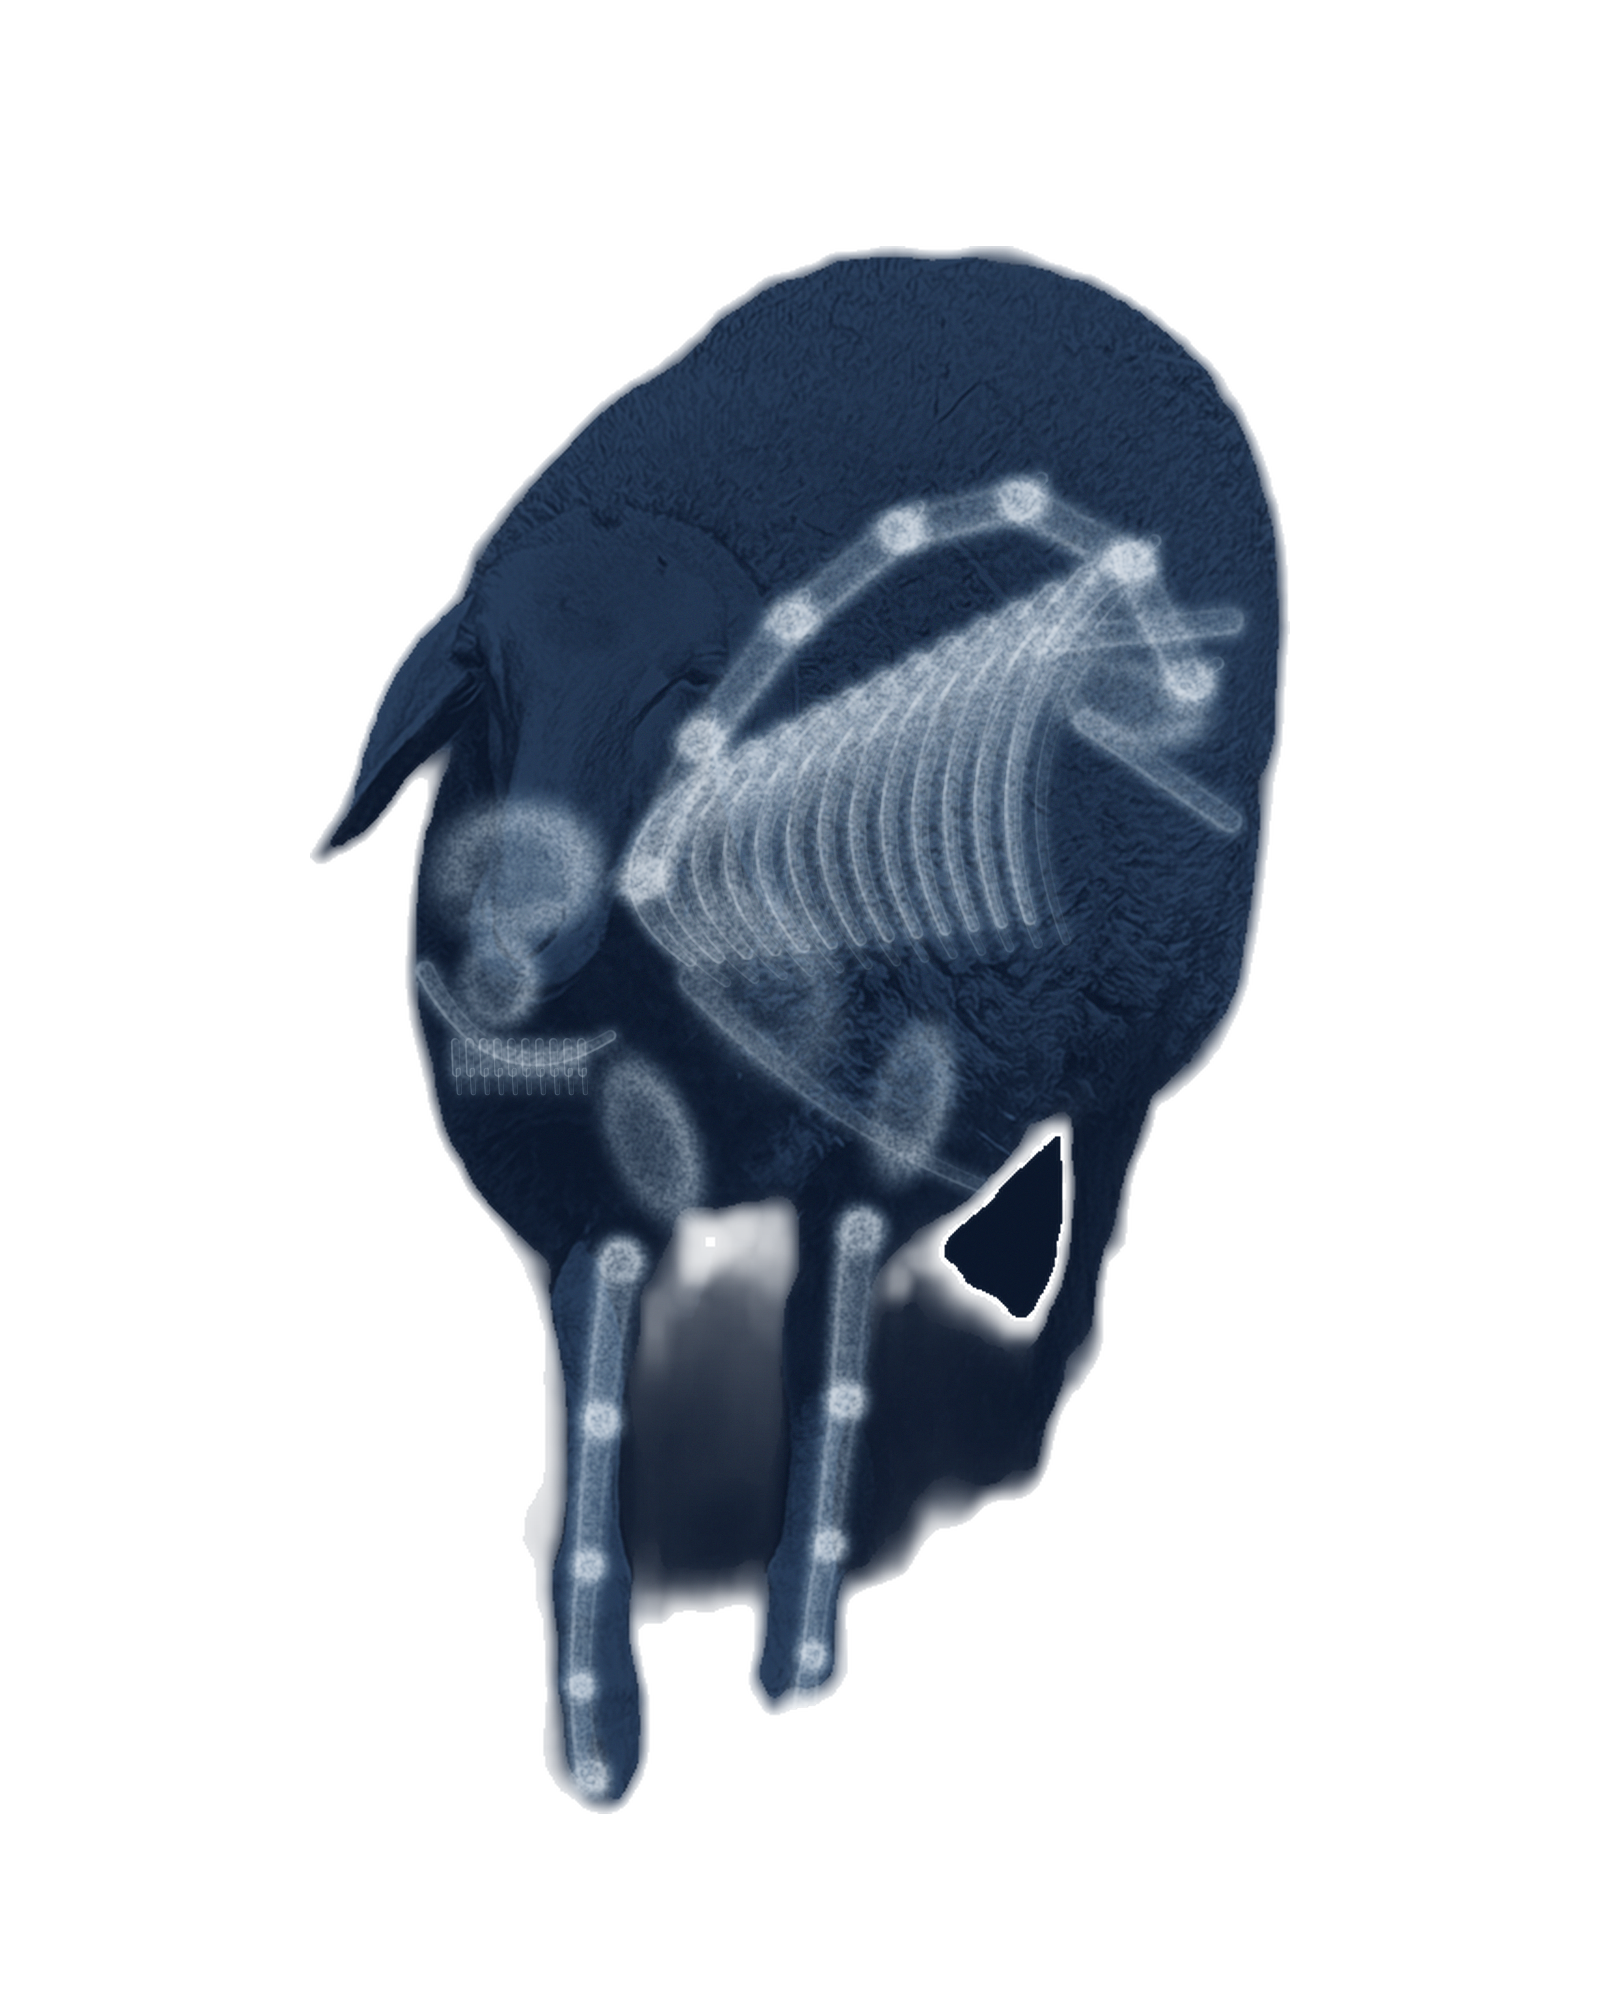
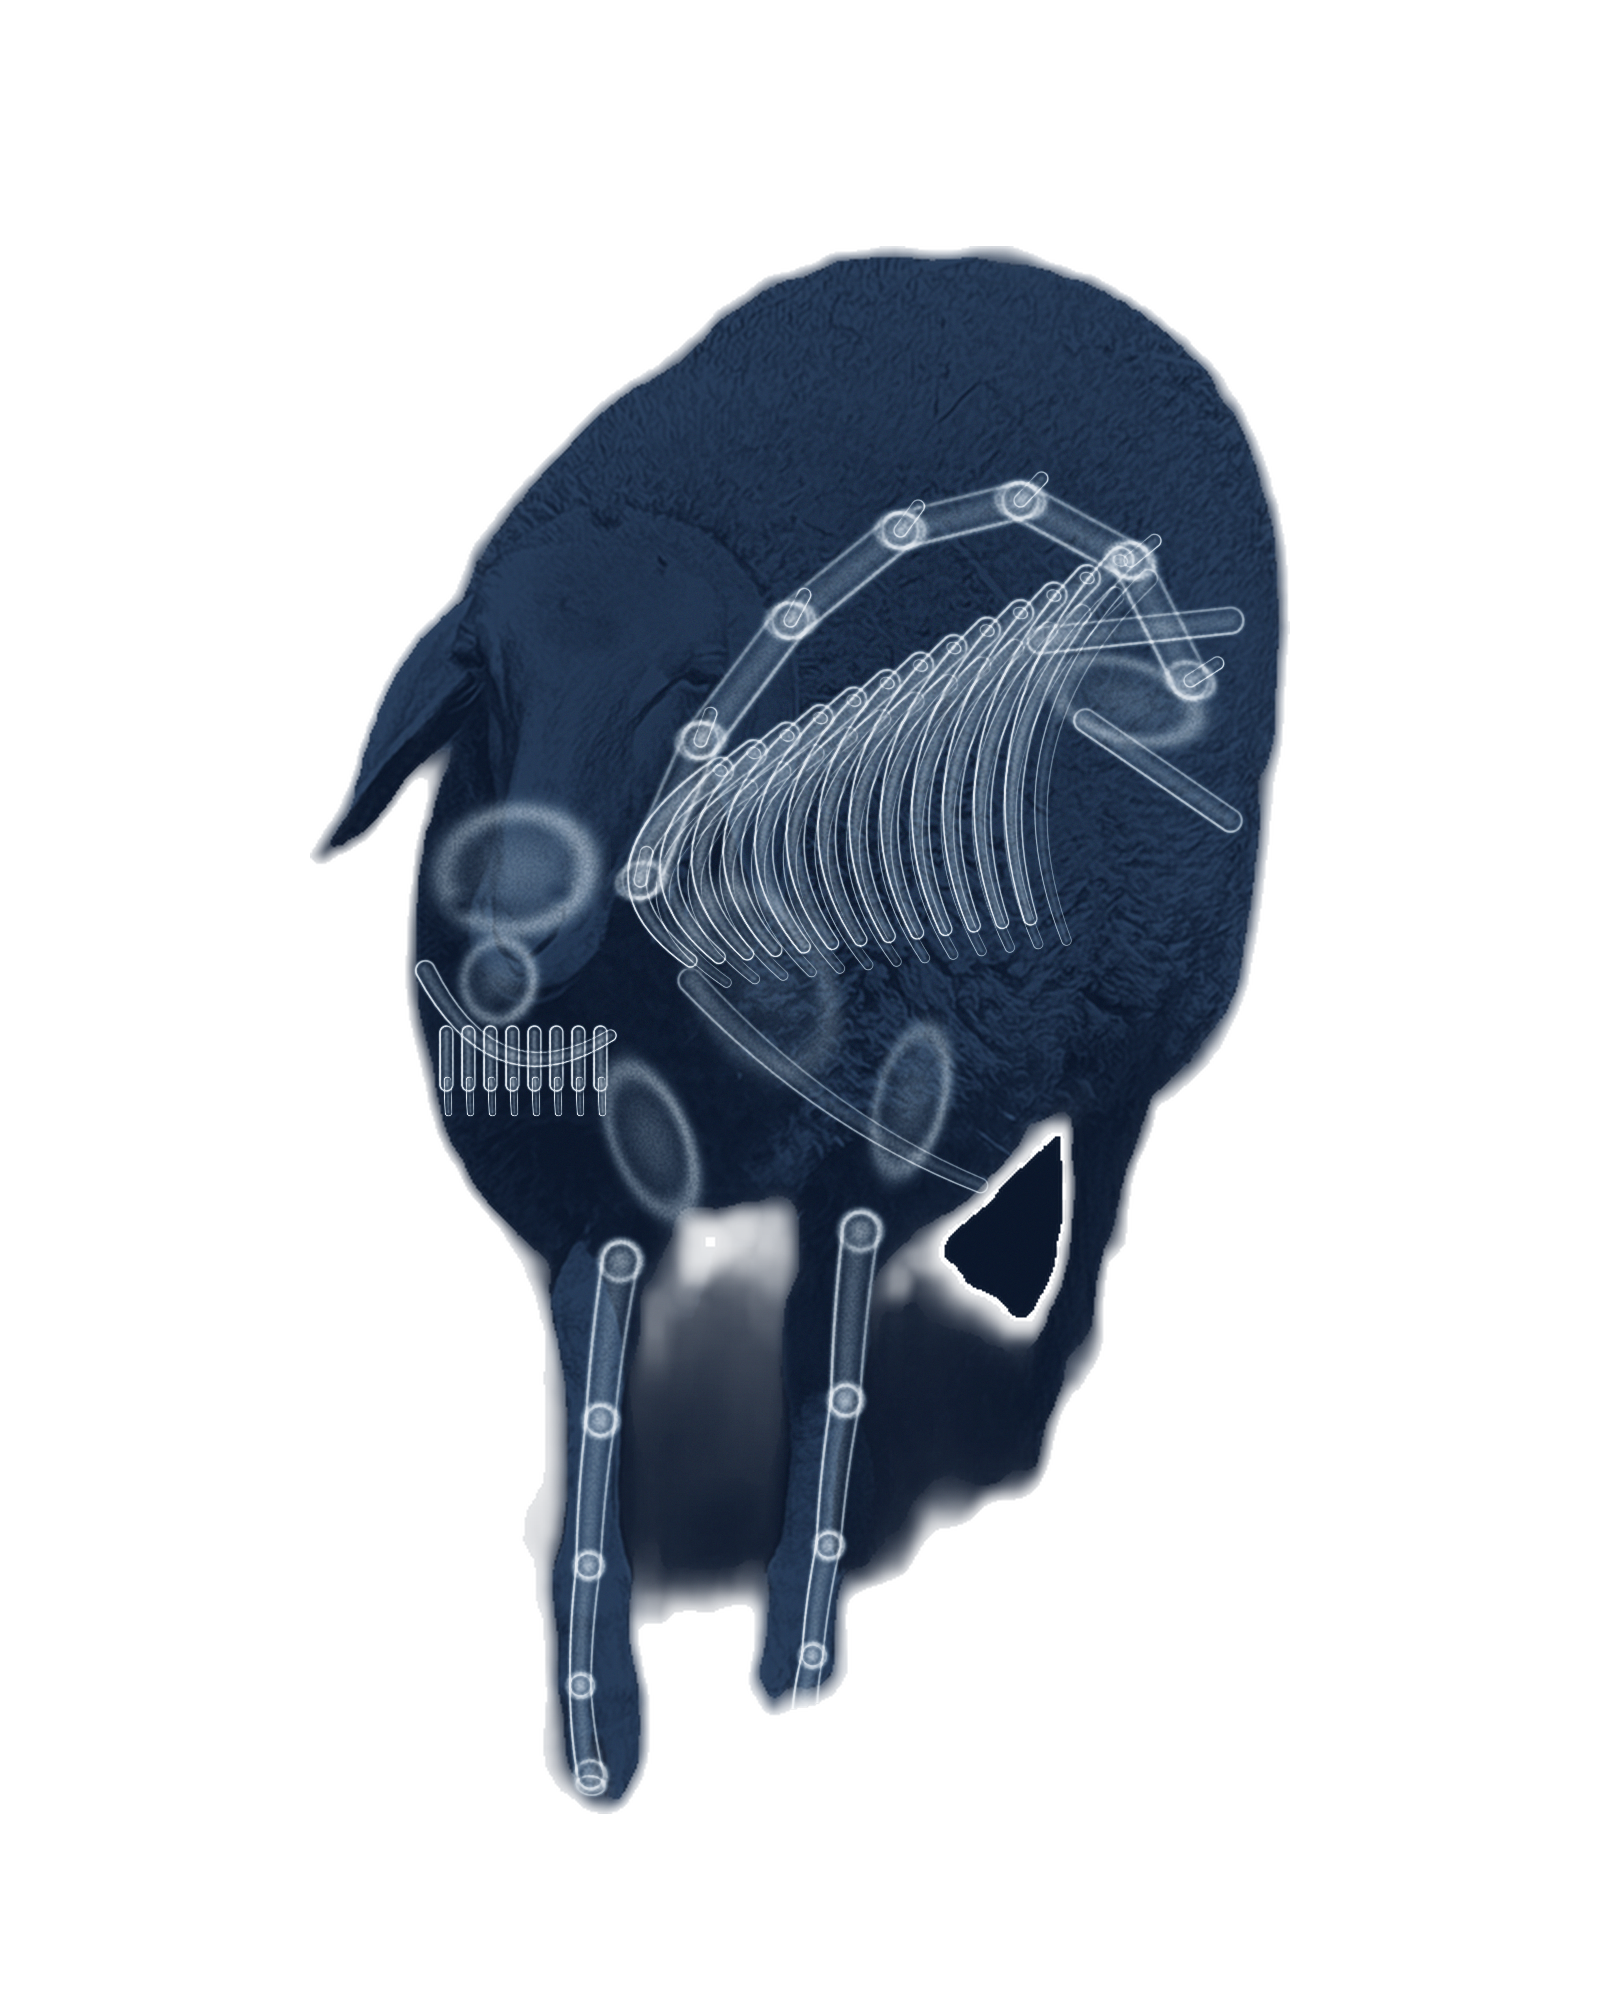
Magnify the phone scan so ribs and teeth resolve.
The sheep now uses the phone column instead of a 320px cap, and a touch opens a 3.85x loupe centered on the anatomy under the finger, drawn above it. The plate is a new sharper file, still registered to the same silhouette.

Changed region(s): [[0.25, 0.217, 0.7812, 0.837], [0.3438, 0.62, 0.4062, 0.899], [0.75, 0.403, 0.7812, 0.434]]

diff --git a/dev/sheep-site/js/scan.js b/dev/sheep-site/js/scan.js
@@ -1,43 +1,66 @@
 (function () {
   var scan = document.getElementById("scan");
   var mask = document.getElementById("mask");
+  var plate = document.getElementById("plate");
   var lens = document.getElementById("lens");
   var touchId = null;
 
-  function radius() {
+  function metrics(touch) {
     var width = scan.getBoundingClientRect().width;
-    return Math.max(68, Math.min(width * 0.46, 124));
+    var phone = touch || window.matchMedia("(max-width: 760px)").matches;
+    if (phone) {
+      return {
+        radius: Math.max(78, Math.min(width * 0.27, 108)),
+        zoom: 3.85
+      };
+    }
+    return {
+      radius: Math.max(90, Math.min(width * 0.32, 128)),
+      zoom: 1.45
+    };
   }
 
-  function place(clientX, clientY, lift) {
+  function place(clientX, clientY, touch) {
     var rect = scan.getBoundingClientRect();
-    var x = clientX - rect.left;
-    var y = clientY - rect.top - lift;
-    var size = radius();
-    mask.style.clipPath = "circle(" + size + "px at " + x + "px " + y + "px)";
-    lens.style.left = x + "px";
-    lens.style.top = y + "px";
-    lens.style.width = size * 2 + "px";
-    lens.style.height = size * 2 + "px";
+    var sampleX = clientX - rect.left;
+    var sampleY = clientY - rect.top;
+    var m = metrics(touch);
+    var lift = 0;
+    if (touch) {
+      var wanted = Math.round(m.radius * 0.42 + 36);
+      var viewY = sampleY - wanted;
+      if (viewY < m.radius * 0.55) viewY = Math.min(sampleY, m.radius * 0.55);
+      lift = sampleY - viewY;
+    }
+    var viewX = sampleX;
+    var viewY = sampleY - lift;
+    mask.style.clipPath = "circle(" + m.radius + "px at " + viewX + "px " + viewY + "px)";
+    plate.style.transformOrigin = sampleX + "px " + sampleY + "px";
+    plate.style.transform = "translate(0px, " + (-lift) + "px) scale(" + m.zoom + ")";
+    lens.style.left = viewX + "px";
+    lens.style.top = viewY + "px";
+    lens.style.width = m.radius * 2 + "px";
+    lens.style.height = m.radius * 2 + "px";
     lens.hidden = false;
   }
 
   function hide() {
     lens.hidden = true;
     mask.style.clipPath = "circle(0px at 50% 50%)";
+    plate.style.transform = "none";
   }
 
   scan.addEventListener("pointermove", function (event) {
     if (event.pointerType === "touch") {
       if (event.pointerId !== touchId) return;
       event.preventDefault();
-      place(event.clientX, event.clientY, radius() * 0.9);
+      place(event.clientX, event.clientY, true);
       return;
     }
-    place(event.clientX, event.clientY, 0);
-  });
+    place(event.clientX, event.clientY, false);
+  }, { passive: false });
 
-  scan.addEventListener("pointerleave", function (event) {
+  scan.addEventListener("pointerleave", function () {
     if (touchId !== null) return;
     hide();
   });
@@ -47,8 +70,8 @@
     event.preventDefault();
     touchId = event.pointerId;
     scan.setPointerCapture(event.pointerId);
-    place(event.clientX, event.clientY, radius() * 0.9);
-  });
+    place(event.clientX, event.clientY, true);
+  }, { passive: false });
 
   function endTouch(event) {
     if (event.pointerId !== touchId) return;

diff --git a/dev/sheep-site/index.html b/dev/sheep-site/index.html
@@ -7,8 +7,8 @@
   <meta property="og:title" content="Wollwölklein vom Berg">
   <meta name="application-name" content="Wollwölklein vom Berg">
   <meta name="description" content="Wollwölklein vom Berg. Cursor oder Finger über die Wolle bewegen.">
-  <link rel="icon" href="assets/icons/sheep.svg?v=20261107h" type="image/svg+xml">
-  <link rel="stylesheet" href="css/site.css?v=20261107h">
+  <link rel="icon" href="assets/icons/sheep.svg?v=20261107i" type="image/svg+xml">
+  <link rel="stylesheet" href="css/site.css?v=20261107i">
 </head>
 <body>
   <main class="page">
@@ -23,7 +23,7 @@
       <div class="scan" id="scan">
         <img class="layer" src="assets/sheep-normal.png?v=116eeb948f4f6912" alt="Wollwölklein vom Berg" width="1600" height="2000">
         <div class="mask" id="mask">
-          <img class="layer" src="assets/sheep-xray.png?v=4320bf18384381e6" alt="" width="1600" height="2000">
+          <img class="layer" id="plate" src="assets/sheep-xray.png?v=054ab200eb964a67" alt="" width="1600" height="2000">
         </div>
         <div class="lens" id="lens" hidden>
           <span class="lens-dot"></span>
@@ -36,6 +36,6 @@
     </p>
     <div class="end" aria-hidden="true"><span class="chevron"></span></div>
   </main>
-  <script src="js/scan.js?v=20261107h"></script>
+  <script src="js/scan.js?v=20261107j"></script>
 </body>
 </html>

diff --git a/dev/sheep-site/css/site.css b/dev/sheep-site/css/site.css
@@ -3,7 +3,7 @@
   font-style: normal;
   font-weight: 400 700;
   font-display: swap;
-  src: url("../assets/fonts/InstrumentSans-Variable.ttf?v=20261107h") format("truetype");
+  src: url("../assets/fonts/InstrumentSans-Variable.ttf?v=20261107i") format("truetype");
 }
 
 @font-face {
@@ -11,7 +11,7 @@
   font-style: normal;
   font-weight: 500;
   font-display: swap;
-  src: url("../assets/fonts/IBMPlexMono-Medium.ttf?v=20261107h") format("truetype");
+  src: url("../assets/fonts/IBMPlexMono-Medium.ttf?v=20261107i") format("truetype");
 }
 
 :root {
@@ -220,16 +220,23 @@ h1 span + span {
 
 @media (max-width: 760px) {
   .page {
-    width: min(100% - 1.5rem, 32rem);
+    width: min(100% - 1.25rem, 32rem);
+    padding-top: 0.85rem;
+    padding-bottom: 0.85rem;
+  }
+
+  .kicker {
+    margin-bottom: 0.7rem;
   }
 
   .layout {
     grid-template-columns: minmax(0, 1fr);
-    gap: 0.85rem;
+    gap: 0.65rem;
   }
 
   .scan {
-    width: min(100%, 50vh, 20rem);
+    width: 100%;
+    width: min(100%, calc((100svh - 13.5rem) * 0.8));
   }
 
   h1 {

diff --git a/dev/sheep-site/widgets/hero-mobile.html b/dev/sheep-site/widgets/hero-mobile.html
@@ -14,7 +14,7 @@
     <div class="mechanical-mask" id="mechanicalMask">
       <img
         class="sheep-image sheep-mechanical"
-        src="../assets/sheep-xray.png?v=4320bf18384381e6"
+        src="../assets/sheep-xray.png?v=054ab200eb964a67"
         alt="Mechanical sheep"
         draggable="false"
       >

diff --git a/dev/sheep-site/widgets/hero-desktop.html b/dev/sheep-site/widgets/hero-desktop.html
@@ -11,7 +11,7 @@
     <div class="xray-mask" id="xrayMask">
       <img
         class="sheep-image sheep-xray"
-        src="../assets/sheep-xray.png?v=4320bf18384381e6"
+        src="../assets/sheep-xray.png?v=054ab200eb964a67"
         alt="X-ray sheep"
       >
     </div>

diff --git a/dev/sheep-site/tools/paint_radiograph.py b/dev/sheep-site/tools/paint_radiograph.py
@@ -46,10 +46,10 @@ def capsule(density: np.ndarray, p0, p1, radius: float, gain: float = 1.0) -> No
     unit = dist / radius
     inside = unit <= 1.0
     # Smooth cross-section: dense cortex, softer marrow, no hard outline.
-    cortex = np.exp(-((unit - 0.72) ** 2) / 0.045)
-    marrow = np.exp(-(unit ** 2) / 0.55)
-    light = 0.72 + 0.28 * np.clip((dx * normal[0] + dy * normal[1]) / max(radius, 1), -1, 1)
-    value = (0.55 * marrow + 0.85 * cortex) * light * gain
+    cortex = np.exp(-((unit - 0.8) ** 2) / 0.016)
+    marrow = np.exp(-(unit ** 2) / 0.36)
+    light = 0.78 + 0.22 * np.clip((dx * normal[0] + dy * normal[1]) / max(radius, 1), -1, 1)
+    value = (0.7 * marrow + 1.25 * cortex) * light * gain
     density[y0:y1, x0:x1] += np.where(unit <= 1.15, value, 0)
 
 
@@ -71,10 +71,10 @@ def disc(density: np.ndarray, center, rx: float, ry: float, angle: float, gain: 
     ly = -dx * np.sin(ang) + dy * np.cos(ang)
     unit = np.hypot(lx / rx, ly / ry)
     inside = unit <= 1
-    cortex = np.exp(-((unit - 0.7) ** 2) / 0.05)
-    marrow = np.exp(-(unit ** 2) / 0.5)
-    light = 0.7 + 0.3 * np.clip(lx / max(rx, 1), -1, 1)
-    value = (0.6 * marrow + 0.8 * cortex) * light * gain
+    cortex = np.exp(-((unit - 0.78) ** 2) / 0.02)
+    marrow = np.exp(-(unit ** 2) / 0.34)
+    light = 0.78 + 0.22 * np.clip(lx / max(rx, 1), -1, 1)
+    value = (0.72 * marrow + 1.2 * cortex) * light * gain
     density[y0:y1, x0:x1] += np.where(unit <= 1.1, value, 0)
 
 
@@ -142,10 +142,10 @@ def tube(density, pts, r0, r1, gain=1.0):
         walked += length
     radius = r0 + (r1 - r0) * travel
     unit = nearest / np.maximum(radius, 1)
-    marrow = np.exp(-(unit ** 2) / 0.5)
-    cortex = np.exp(-((unit - 0.68) ** 2) / 0.04)
-    shade = 0.7 + 0.3 * np.clip(light / np.maximum(radius, 1), -1, 1)
-    value = (0.62 * marrow + 0.9 * cortex) * shade * gain
+    marrow = np.exp(-(unit ** 2) / 0.34)
+    cortex = np.exp(-((unit - 0.8) ** 2) / 0.014)
+    shade = 0.78 + 0.22 * np.clip(light / np.maximum(radius, 1), -1, 1)
+    value = (0.7 * marrow + 1.25 * cortex) * shade * gain
     density[y0:y1, x0:x1] += np.where(unit <= 1.12, value, 0)
 
 
@@ -221,23 +221,24 @@ def main() -> None:
     disc(bone, (515, 870), 92, 74, -8, 1.0)
     disc(bone, (498, 980), 44, 50, 8, 0.88)
     tube(bone, quad((425, 970), (495, 1105), (610, 1035), 18), 12, 7, 0.95)
-    for i, x in enumerate(range(455, 590, 14)):
-        capsule(bone, (x, 1042), (x + 1, 1072), 5.2, 1.0)
-        capsule(bone, (x + 3, 1070), (x + 4, 1092), 3.2, 0.7)
+    for x in range(446, 604, 22):
+        capsule(bone, (x, 1032), (x, 1084), 8.0, 1.25)
+        capsule(bone, (x + 1, 1080), (x + 2, 1112), 4.2, 0.9)
     darken(bone, (462, 905), 22, 16, 0.88)
     darken(bone, (558, 892), 18, 14, 0.84)
     darken(bone, (500, 1005), 14, 20, 0.6)
 
-    # Fine cancellous texture inside the bone volumes.
+    # Fine grain, then a tight unsharp so a phone loupe stays crisp.
     noise = rng.random((h // 2, w // 2)).astype(np.float32)
     noise = cv2.resize(noise, (w, h), interpolation=cv2.INTER_CUBIC)
-    noise = cv2.GaussianBlur(noise, (0, 0), 1.1)
-    soft = cv2.GaussianBlur(bone, (0, 0), 6)
-    edge = np.clip(bone - soft, 0, None)
-    bone = soft * (0.48 + 0.95 * noise) + edge * 0.55
+    noise = cv2.GaussianBlur(noise, (0, 0), 0.55)
+    soft = cv2.GaussianBlur(bone, (0, 0), 0.9)
+    edge = np.clip(bone - cv2.GaussianBlur(bone, (0, 0), 2.0), 0, None)
+    bone = soft * (0.84 + 0.28 * noise) + edge * 1.35
     bone *= mask
-    film = 1.0 - np.exp(-bone * 1.15)
-    film = np.clip(film, 0, 1)
+    film = 1.0 - np.exp(-np.clip(bone, 0, None) * 0.72)
+    low = cv2.GaussianBlur(film, (0, 0), 1.35)
+    film = np.clip(film + (film - low) * 1.05, 0, 1)
 
     k = film[..., None]
     bone_rgb = np.zeros_like(tissue)

diff --git a/dev/sheep-site/README.md b/dev/sheep-site/README.md
@@ -2,7 +2,7 @@
 
 Static hero. HTML, CSS, JavaScript, and local files. No Node runtime and no remote requests.
 
-Image, stylesheet, script, and font URLs carry a version query so a warm browser does not reuse a seven-day cache of an older file. The pictures are versioned: `sheep-normal.png?v=116eeb948f4f6912` and `sheep-xray.png?v=4320bf18384381e6`. The headline uses Instrument Sans.
+Image, stylesheet, script, and font URLs carry a version query so a warm browser does not reuse a seven-day cache of an older file. The pictures are versioned: `sheep-normal.png?v=116eeb948f4f6912` and `sheep-xray.png?v=054ab200eb964a67`. The headline uses Instrument Sans. On a phone the sheep uses the column width, and the lens magnifies the plate about 3.85 times around the finger while the circle itself sits above it.
 
 Open `index.html` through any static server. For nginx, point a location at this directory.
 
